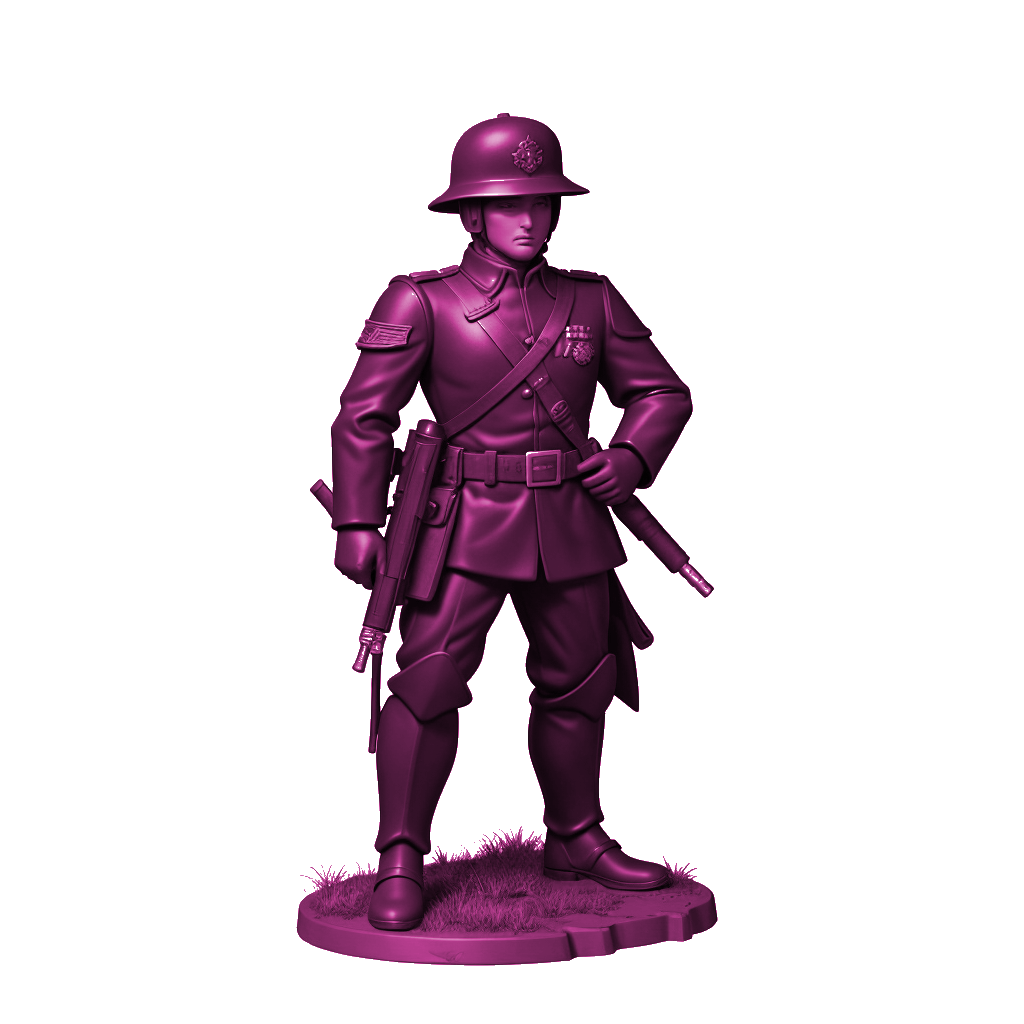
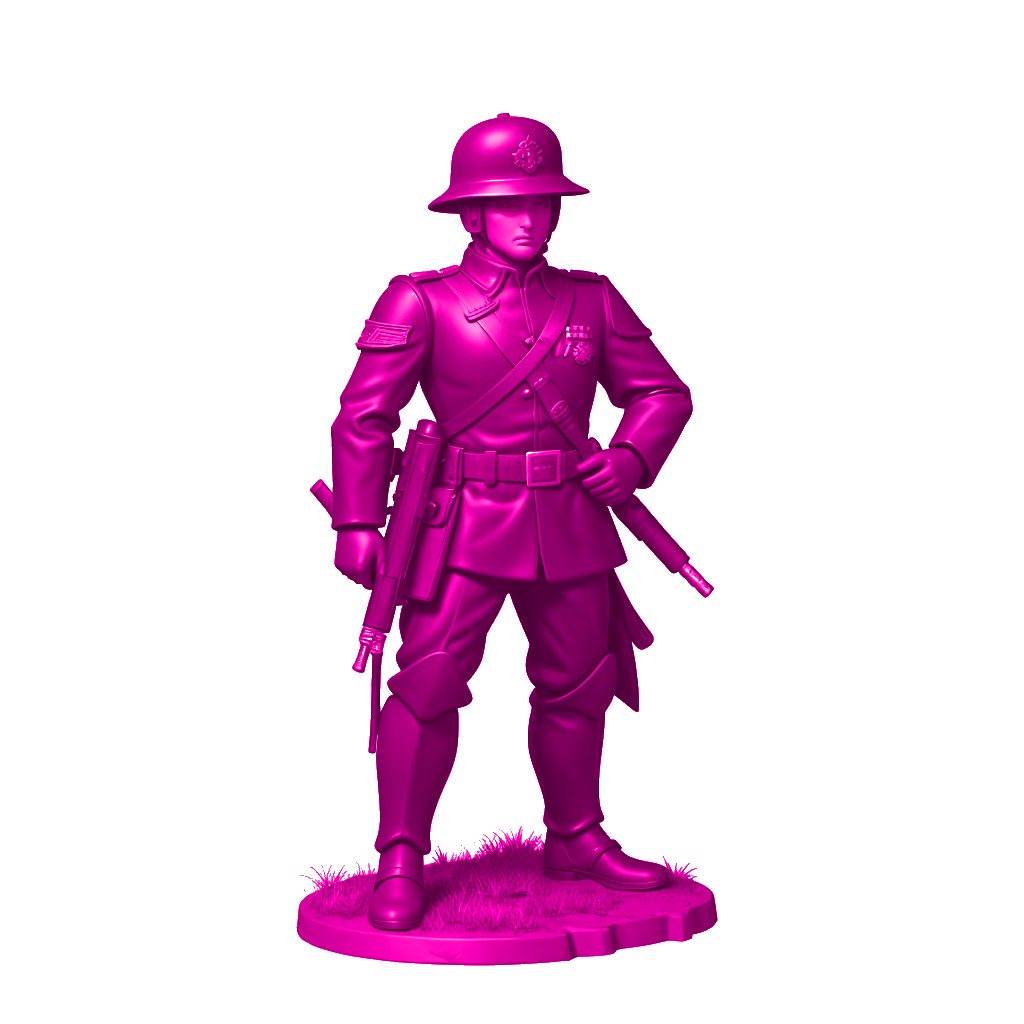
Chat & responsive & bug fixing & imagenes
- Se envían mensajes al pulsar enter, en el chat del  lobby y en el de partida
- Ahora la pntalla de la partida es más responsive
- No aparece la fase de maniobra si no es tu turno
- Las imágenes son mas chillonas para q se distingan mejor

Changed region(s): [[0.2812, 0.0938, 0.7188, 0.9688]]

diff --git a/src/app/partida/partida.component.html b/src/app/partida/partida.component.html
@@ -17,15 +17,32 @@
             position: relative; /* Establece la posición relativa para contener los elementos internos */
         }
         .svg-container {
-            width: 80vw;
-            height: 80vh;
+            width: 90vw;
+            height: 90vh;
+            margin-right: 5vw;
+            margin-left: -20vw;
         }
         .other-content {
             position: absolute; /* Establece la posición absoluta para evitar superposiciones */
             top: 45%; /* Alinea desde la mitad superior */
             transform: translateY(-50%); /* Centra verticalmente */
-            left: calc(72vw + 30px); /* Coloca a la derecha del SVG con un pequeño espacio */
-            width: calc(20vw - 30px); /* Define el ancho */
+            left: calc(72vw + 15px); /* Coloca a la derecha del SVG con un pequeño espacio */
+            width: calc(20vw - 50px); /* Define el ancho */
+        }
+
+        /* Responsive design */
+        @media (max-width: 768px) {
+            .svg-container {
+                width: 100vw;
+                height: 50vh;
+            }
+            .other-content {
+                position: relative;
+                top: 0;
+                transform: none;
+                left: 0;
+                width: 100%;
+            }
         }
     </style>
 </head>
@@ -66,7 +83,7 @@
                 <button (click)="cambiarTurno()" class="btn btn-primary">Cambiar Turno</button>
             </div>
             <div class="mb-3">{{ text }}</div>
-            <div *ngIf="fase == 1 || fase == 2" class="mb-3" style="font-size: 1.5em; border: 1px solid black; padding: 10px;">
+            <div *ngIf="(fase == 1 || fase == 2) && turnoJugador == whoami" class="mb-3" style="font-size: 1.5em; border: 1px solid black; padding: 10px;">
                 Tropas seleccionadas: {{ ataqueTropas }}
                 <button (click)="cancelarManiobra()" class="btn btn-warning ml-2">Cancelar Maniobra</button>
             </div>
@@ -86,8 +103,10 @@
                     </div>
                 </div>
                 <div class="card-footer">
-                    <input #enviarMensaje type="text" class="form-control" placeholder="Escribe un mensaje...">
-                    <button class="btn btn-primary mt-2" (click)="sendMessage(enviarMensaje.value); enviarMensaje.value=''">Enviar</button>
+                    <form (submit)="sendMessage(enviarMensaje.value); enviarMensaje.value=''; $event.preventDefault()">
+                        <input #enviarMensaje type="text" class="form-control" placeholder="Escribe un mensaje...">
+                        <button class="btn btn-primary mt-2" type="submit">Enviar</button>
+                    </form>
                 </div>
                 <button class="btn btn-danger" (click)="abandonarPartida()">Abandonar Partida</button>
             </div>

diff --git a/src/app/lobby/lobby.component.html b/src/app/lobby/lobby.component.html
@@ -54,8 +54,10 @@
           </div>
         </div>
         <div class="card-footer">
-          <input #enviarMensaje type="text" class="form-control" placeholder="Escribe un mensaje...">
-          <button class="btn btn-primary mt-2" (click)="sendMessage(enviarMensaje.value); enviarMensaje.value=''">Enviar</button>
+          <form (submit)="sendMessage(enviarMensaje.value); enviarMensaje.value=''; $event.preventDefault()">
+            <input #enviarMensaje type="text" class="form-control" placeholder="Escribe un mensaje...">
+            <button class="btn btn-primary mt-2" type="submit">Enviar</button>
+          </form>
         </div>
       </div>
     </div>

diff --git a/src/app/partida/partida.component.ts b/src/app/partida/partida.component.ts
@@ -172,10 +172,11 @@ eliminado : boolean | null = null;
       this.jugadores = response.partida.jugadores; // cojo sus jugadores, ya vienen con su color
       
       // busco mi color y de paso relleno las skins
-      for(let jugador of this.jugadores){
+      for(let jugador of response.partida.jugadores){
         if(jugador.usuario === this.whoami){
           this.myColor = jugador.color;
           if(jugador.abandonado){
+            console.log(response.partida._id)
             this.toastr.error('Has sido eliminado');
             this.eliminado = true;
             console.log(this.eliminado)
